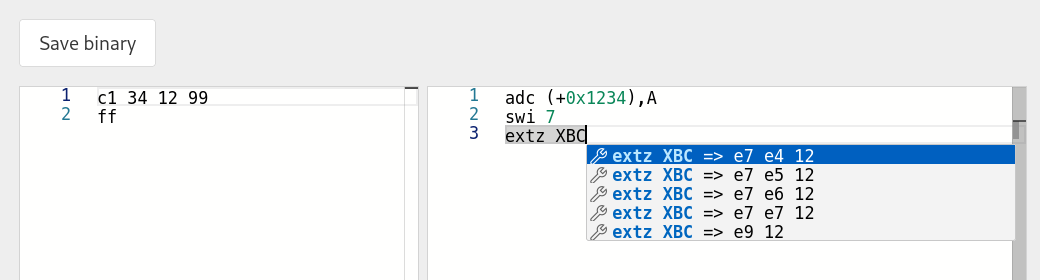
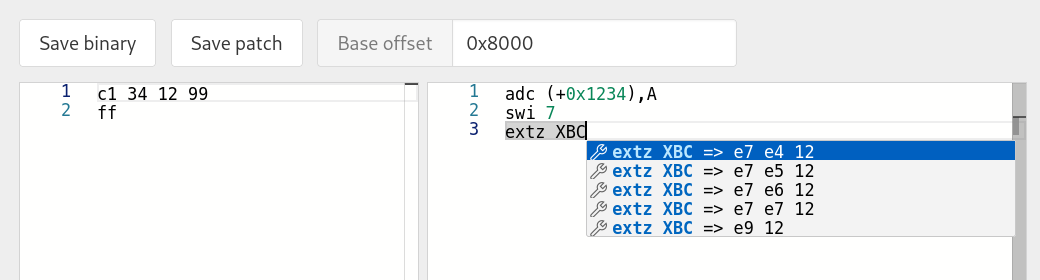
Add patch

diff --git a/src/editor.js b/src/editor.js
@@ -18,8 +18,11 @@ require(['vs/editor/editor.main'], function () {
         return trimmedHexString.length % 2 === 0 && /^[0-9a-fA-F]+$/.test(trimmedHexString);
     };
 
-    const fromHexString = (hexString) =>
+    const fromHexStringToU8 = (hexString) =>
         Uint8Array.from(hexString.replace(/\s/g, '').match(/.{1,2}/g).map((byte) => parseInt(byte, 16)));
+
+    const fromHexStringToPy = (hexString) =>
+        Array.prototype.join.call(hexString.replace(/\s/g, '').match(/.{1,2}/g).map((byte) => `\\x${byte}`), '');
 
     const fetchCompletions = async (line) => {
         let completions = [];
@@ -266,8 +269,8 @@ require(['vs/editor/editor.main'], function () {
     );
 
     instanceEditor.onDidChangeModelContent((_) => {
-        let model = instanceEditor.getModel();
-        let previousMarkers = monaco.editor.getModelMarkers();
+        const model = instanceEditor.getModel();
+        const previousMarkers = monaco.editor.getModelMarkers();
         if (previousMarkers.length > 0
             && previousMarkers[0].owner === OWNER_EDITOR
             && instanceEditor.getPosition().lineNumber === previousMarkers[0].startLineNumber) {
@@ -283,23 +286,63 @@ require(['vs/editor/editor.main'], function () {
         syncBytes();
     });
 
-    document.querySelector('#save-button').onclick = function() {
+    document.querySelector('#save-bin-button').onclick = function() {
         let data = [];
-        let model = instanceBytes.getModel();
+        const model = instanceBytes.getModel();
         for (let i = 1; i < model.getLineCount() + 1; i++) {
-            let line = model.getLineContent(i);
+            const line = model.getLineContent(i);
             if (!line || (line == UNKNOWN_BYTES)) {
                 continue;
             }
-            data.push(fromHexString(line));
+            data.push(fromHexStringToU8(line));
         }
         if (data.length === 0) {
             alert("No bytes to save.");
             return;
         }
 
-        let blob = new Blob(data, {type: "application/octet-stream"});
-        let fileName = "out.bin";
+        const blob = new Blob(data, {type: "application/octet-stream"});
+        const fileName = "out.bin";
+        saveAs(blob, fileName);
+    };
+
+    document.querySelector('#save-patch-button').onclick = function() {
+        let data = [];
+        const modelBytes = instanceBytes.getModel();
+        const modelEditor = instanceEditor.getModel();
+        for (let i = 1; i < modelBytes.getLineCount() + 1; i++) {
+            const line = modelBytes.getLineContent(i);
+            if (!line || (line == UNKNOWN_BYTES)) {
+                continue;
+            }
+            const disassembledLine = modelEditor.getLineContent(i).trim();
+            if (disassembledLine.length > 0) {
+                data.push(`    # ${disassembledLine}\n`);
+            }
+            data.push(`    b += b'${fromHexStringToPy(line)}'\n`);
+        }
+        if (data.length === 0) {
+            alert("No bytes to save.");
+            return;
+        }
+
+        let offset = document.getElementById('offset-input').value;
+        //offset = offset.startsWith('0x') ? parseInt(offset, 16) : parseInt(offset);
+
+        let script = `#!/usr/bin/env python3
+
+import sys
+
+with open(sys.argv[1], 'wb') as f:
+    f.seek(${offset})
+
+    b = b''
+${Array.prototype.join.call(data, '')}
+    f.write(b)
+`
+
+        const blob = new Blob([script], {type: "application/octet-stream"});
+        const fileName = "out.py";
         saveAs(blob, fileName);
     };
 });

diff --git a/index.html b/index.html
@@ -5,19 +5,32 @@
     <meta http-equiv="Content-Type" content="text/html; charset=utf-8">
 </head>
 <body>
-    <button class="button" id="save-button" style="margin-bottom: 1rem;">Save binary</button>
-    <div class="row">
-        <div class="col bytes" id="bytes" style="width: 400px; height: 400px;">
-        </div>
-        <div class="col editor" id="editor" style="width: 600px; height: 400px;">
+    <div class="field is-grouped">
+        <p class="control"><button class="button" id="save-bin-button">Save binary</button>
+        </p>
+
+        <p class="control"><button class="button" id="save-patch-button">Save patch</button>
+        </p>
+
+        <div class="field has-addons">
+            <p class="control"><a class="button is-static">Base offset</a>
+            </p>
+
+            <p class="control"><input class="input" id="offset-input" type="text" value="0">
+            </p>
         </div>
     </div>
 
-    <script src="node_modules/file-saver/dist/FileSaver.js"></script>
+    <div class="row">
+        <div class="col bytes" id="bytes" style="width: 400px; height: 400px;">
+        </div>
 
-    <script src="node_modules/monaco-editor/min/vs/loader.js"></script>
+        <div class="col editor" id="editor" style="width: 600px; height: 400px;">
+        </div>
+    </div>
+    <script src="node_modules/file-saver/dist/FileSaver.js"></script> 
+    <script src="node_modules/monaco-editor/min/vs/loader.js"></script> 
     <script src="src/editor.js"></script>
-
     <link type="text/css" rel="stylesheet" href="css/bulma.css">
     <link type="text/css" rel="stylesheet" href="css/main.css">
 </body>

diff --git a/README.md b/README.md
@@ -6,6 +6,27 @@ Example using [Toshiba TLCS-900/H](https://github.com/nevesnunes/ghidra-tlcs900h
 
 ![](./example.png)
 
+`Save patch` generates a Python script that applies instructions at the given base offset to an input file:
+
+```python
+#!/usr/bin/env python3
+
+import sys
+
+with open(sys.argv[1], 'wb') as f:
+    f.seek(0x8000)
+
+    b = b''
+    # adc (+0x1234),A
+    b += b'\xc1\x34\x12\x99'
+    # swi 7
+    b += b'\xff'
+    # extz XBC
+    b += b'\xe7\xe4\x12'
+
+    f.write(b)
+```
+
 ## Why not just use Ghidra?
 
 We can modify a disassembled instruction or edit cleared bytes with action "Patch Instruction", which is fine once you change the default keybind to use a single key.
